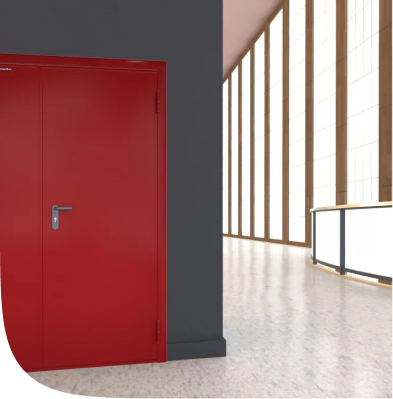
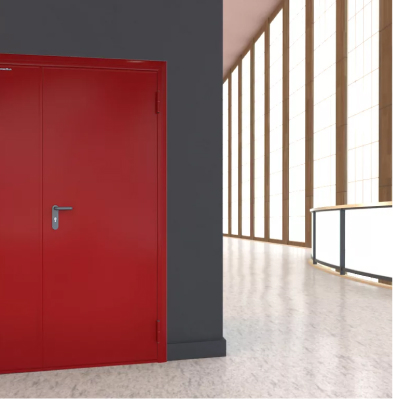
three

Changed region(s): [[0.0, 0.7218, 0.3359, 1.0]]

diff --git a/js/front.js b/js/front.js
@@ -395,24 +395,11 @@ function documentActions(e) {
 
 // Модуль работы с меню (бургер) =======================================================================================================================================================================================================================
 
-		// document.addEventListener("click", function (e) {
-		// 	if (e.target.closest('.icon-menu')) {
-		// 		document.documentElement.classList.toggle("menu-open");
-		// 	}
-		// });
-
-            document.addEventListener("click", function (e) {
-                if (e.target.closest('.icon-menu')) {
-                    document.documentElement.classList.toggle("menu-open");
-                    if (document.documentElement.classList.contains('catalog-open')) {
-                        document.documentElement.classList.remove('catalog-open');
-                    }
-                    if (document.documentElement.classList.contains('sub-menu-open')) {
-                        document.documentElement.classList.remove('sub-menu-open');
-                    }
-                }
-            });
-
+document.addEventListener("click", function (e) {
+    if (e.target.closest('.icon-menu')) {
+        document.documentElement.classList.toggle("menu-open");
+    }
+}); 
 
 //========================================================================================================================================================
 

diff --git a/css/style.css b/css/style.css
@@ -1335,14 +1335,24 @@ a {
 .scheme__img-body {
   position: relative;
 }
-@supports (margin-left: clamp( -14.2857142857rem , -16.3265306224rem  +  8.9285714732vw , 0.0000000714rem )) {
+@supports (margin-left: clamp( -14.2857142857rem , -18.5714285929rem  +  10.00000005vw , 0.0000000714rem )) {
   .scheme__img-body {
-    margin-left: clamp( -14.2857142857rem , -16.3265306224rem  +  8.9285714732vw , 0.0000000714rem );
+    margin-left: clamp( -14.2857142857rem , -18.5714285929rem  +  10.00000005vw , 0.0000000714rem );
   }
 }
-@supports not (margin-left: clamp( -14.2857142857rem , -16.3265306224rem  +  8.9285714732vw , 0.0000000714rem )) {
+@supports not (margin-left: clamp( -14.2857142857rem , -18.5714285929rem  +  10.00000005vw , 0.0000000714rem )) {
   .scheme__img-body {
-    margin-left: calc(-14.2857142857rem + 14.2857143571 * (100vw - 22.8571428571rem) / 162.8571428571);
+    margin-left: calc(-14.2857142857rem + 14.2857143571 * (100vw - 42.8571428571rem) / 148.2142857143);
+  }
+}
+@media (min-width: 185.7142857143em) {
+  .scheme__img-body {
+    margin-left: inherit;
+  }
+}
+@media (max-width: 42.8571428571em) {
+  .scheme__img-body {
+    margin-left: inherit;
   }
 }
 .scheme__img {

diff --git a/#source/header.html b/#source/header.html
@@ -19,7 +19,7 @@
     <div class="header__body body-header">
         <div class="body-header__container container">
             <div class="body-header__row row align-items-center">
-                <a class="body-header__logo col-5 col-sm-5 col-md-5 col-lg-4 col-xl-3">
+                <a class="body-header__logo col-5 col-sm-6 col-md-6 col-lg-4 col-xl-3">
                     <img class="img-fluid" src="img/logo.svg" alt="">
                 </a>
                 <nav class="body-header__menu col-auto menu">
@@ -43,7 +43,7 @@
                         </li>
                     </ul>
                 </nav>
-                <div class="body-header__phone col-5 col-sm-5 col-md-auto ">
+                <div class="body-header__phone col-5 col-sm-5 col-md-5 col-lg-auto">
                     <div class="body-header__phone-body">
                         <a href="tel:73842240021" class="body-header__phone-link">
                             +7 (3842) 24-00-21

diff --git a/index.html b/index.html
@@ -39,7 +39,7 @@
     <div class="header__body body-header">
         <div class="body-header__container container">
             <div class="body-header__row row align-items-center">
-                <a class="body-header__logo col-5 col-sm-5 col-md-5 col-lg-4 col-xl-3">
+                <a class="body-header__logo col-5 col-sm-6 col-md-6 col-lg-4 col-xl-3">
                     <img class="img-fluid" src="img/logo.svg" alt="">
                 </a>
                 <nav class="body-header__menu col-auto menu">
@@ -63,7 +63,7 @@
                         </li>
                     </ul>
                 </nav>
-                <div class="body-header__phone col-5 col-sm-5 col-md-auto ">
+                <div class="body-header__phone col-5 col-sm-5 col-md-5 col-lg-auto">
                     <div class="body-header__phone-body">
                         <a href="tel:73842240021" class="body-header__phone-link">
                             +7 (3842) 24-00-21

diff --git a/#source/scss/scheme.scss b/#source/scss/scheme.scss
@@ -16,7 +16,7 @@
         @media (max-width: 768px){
             grid-template-columns: 1fr;
             align-items: center;
-        }
+        } 
     }
 
     // .scheme__img-cnt
@@ -28,7 +28,7 @@
     
     &__img-body {
         position: relative;
-        @include adaptiveValue("margin-left", 0, -200);
+        @include adaptiveValue("margin-left", 0, -200, 2600, 600);
     }
     
     // .scheme__img
